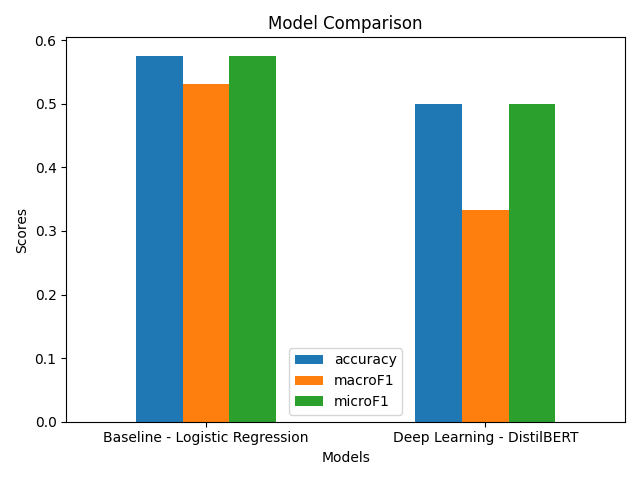
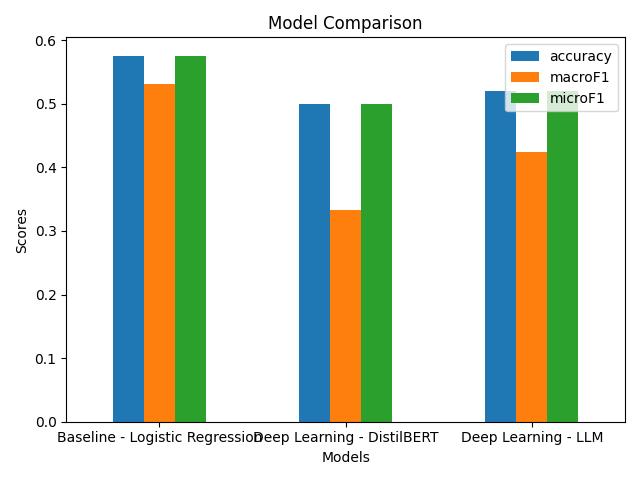
Rerun model comparison to include LLM based model

diff --git a/Assignment 2/ModelSummarizer.py b/Assignment 2/ModelSummarizer.py
@@ -89,6 +89,11 @@ if __name__ == "__main__":
             "predArray": np.load(os.path.join(ROOT, "predictions", "DISTILBERT_pred_dev.npy")),
             "trueArray": np.load(os.path.join(ROOT, "predictions", "DISTILBERT_y_dev.npy")),
         },
+        {
+            "modelName": "Deep Learning - LLM",
+            "predArray": np.load(os.path.join(ROOT, "predictions", "LLM_y_dev_pred.npy")),
+            "trueArray": np.load(os.path.join(ROOT, "predictions", "LLM_y_dev.npy")),
+        }
     ]
     models = evaluate(models)
     bestModel = summarize(models)
@@ -100,6 +105,8 @@ if __name__ == "__main__":
             best_model_name = "baseline"
         case "Deep Learning - DistilBERT":
             best_model_name = "distilBERT"
+        case "Deep Learning - LLM":
+            best_model_name = "llm"
         case _:
             best_model_name = "baseline"
     
